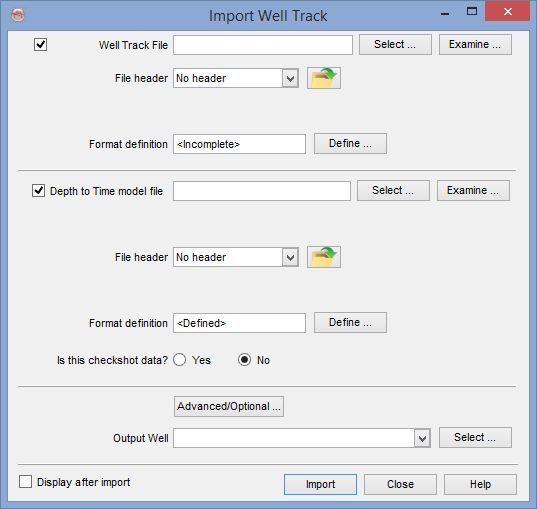
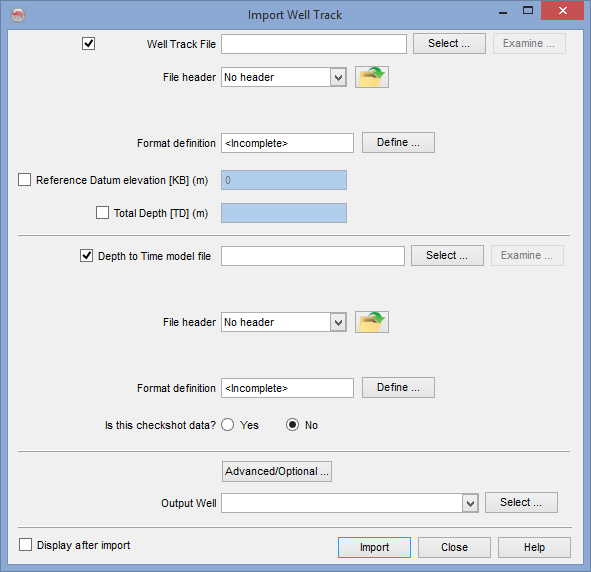
Update to multi-attribute output topic. Addition of new image here.

diff --git a/od_userdoc/Content/Survey/Import/imp_wlls/trk.htm b/od_userdoc/Content/Survey/Import/imp_wlls/trk.htm
@@ -1,5 +1,5 @@
 <?xml version="1.0" encoding="utf-8"?>
-<html xmlns:MadCap="http://www.madcapsoftware.com/Schemas/MadCap.xsd" MadCap:lastBlockDepth="6" MadCap:lastHeight="3593" MadCap:lastWidth="1253">
+<html xmlns:MadCap="http://www.madcapsoftware.com/Schemas/MadCap.xsd" MadCap:lastBlockDepth="6" MadCap:lastHeight="3911" MadCap:lastWidth="949">
     <head>
     </head>
     <body>
@@ -9,6 +9,10 @@
         <p>
             <img src="../../../Resources/Images/5 Menu - Survey/Import wells ascii track.png" class="General_Image" style="float: left;" />
         </p>
+        <p>&#160;</p>
+        <p>&#160;</p>
+        <p>&#160;</p>
+        <p>&#160;</p>
         <p>&#160;</p>
         <p>&#160;</p>
         <p>&#160;</p>
@@ -104,12 +108,14 @@
             <p>&#160;</p>
             <p>The track file determines the size of the usable and displayed well data. Any log or marker outside of the track Z range will neither be usable nor be displayed. On the other hand the well track is not limited to the survey Z range, especially it can be loaded outside the survey box.</p>
         </blockquote>
-        <p>&#160;</p>
         <p>It is recommended to save the format definition for a later use and QC, by clicking on the <img src="../../../Resources/Images/Icons/save.png" class="Icons" />icon . In pop-up window, write the name of the format and store it. The format can be stored at different levels (All surveys, Current survey, Current OpendTect user level) depending on the usage.</p>
         <p>&#160;</p>
         <p>
             <img src="../../../Resources/Images/5 Menu - Survey/Import wells ascii track save format definition.png" class="General_Image" />
         </p>
+        <p>&#160;</p>
+        <p>You also have the option to enter here the <i>Reference Datum Elevation [KB]</i> and / or the <i>Total Depth [TD]</i> (both in the default survey unit). </p>
+        <p>&#160;</p>
         <p>&#160;</p>
         <p>Next the depth-time model must be specified. A constant interval velocity can be used instead of a file. The selection of a file will lead to the same need to provide the <i>header</i> settings and file <i>format definition</i>.</p>
         <p>&#160;</p>

diff --git a/od_userdoc/Content/proc/create_seis_output/mlti_attr.htm b/od_userdoc/Content/proc/create_seis_output/mlti_attr.htm
@@ -1,19 +1,27 @@
 <?xml version="1.0" encoding="utf-8"?>
-<html xmlns:MadCap="http://www.madcapsoftware.com/Schemas/MadCap.xsd" MadCap:lastBlockDepth="2" MadCap:lastHeight="1033" MadCap:lastWidth="1081">
+<html xmlns:MadCap="http://www.madcapsoftware.com/Schemas/MadCap.xsd" MadCap:lastBlockDepth="2" MadCap:lastHeight="1348" MadCap:lastWidth="1001">
     <head>
     </head>
     <body>
         <h4>Multi Attribute</h4>
-        <p>Multi-attribute output enables the user to create a volume with several attributes. </p>
+        <p>Multi-attribute output enables the user to create a volume with several attributes. '<i>Available Attributes</i>' lists all possible components of the possible multi-attribute output and any combination can be selected. Once moved across into the '<i>Selected Attributes</i>' list, these attributes are processed into a single volume.</p>
         <p>&#160;</p>
         <p>
             <img src="../../Resources/Images/7 Processing/Processing create seismic output multi attribute main.png" class="General_Image" />
         </p>
         <p>&#160;</p>
+        <p class="note">It is not necessary to check the boxes next to the attributes in the Selected Attributes list in order for them to be included in the output volume. All attributes in the 'Selected' list are included by default.</p>
+        <p>&#160;</p>
         <p>On loading the volume onto an inline (for example), the user is prompted to select which of the available attributes he wishes to use:</p>
         <p>&#160;</p>
         <p>
             <img src="../../Resources/Images/7 Processing/Processing create seismic output multi attribute load selection.png" class="General_Image" />
+        </p>
+        <p>&#160;</p>
+        <p>The component of the multi-attribute cube that is actually being displayed in the scene is appended on the volume name in the tree:</p>
+        <p>&#160;</p>
+        <p>
+            <img src="../../Resources/Images/7 Processing/Processing create seismic output multi attribute tree disp.png" class="General_Image" />
         </p>
         <p>&#160;</p>
         <p>&#160;</p>
